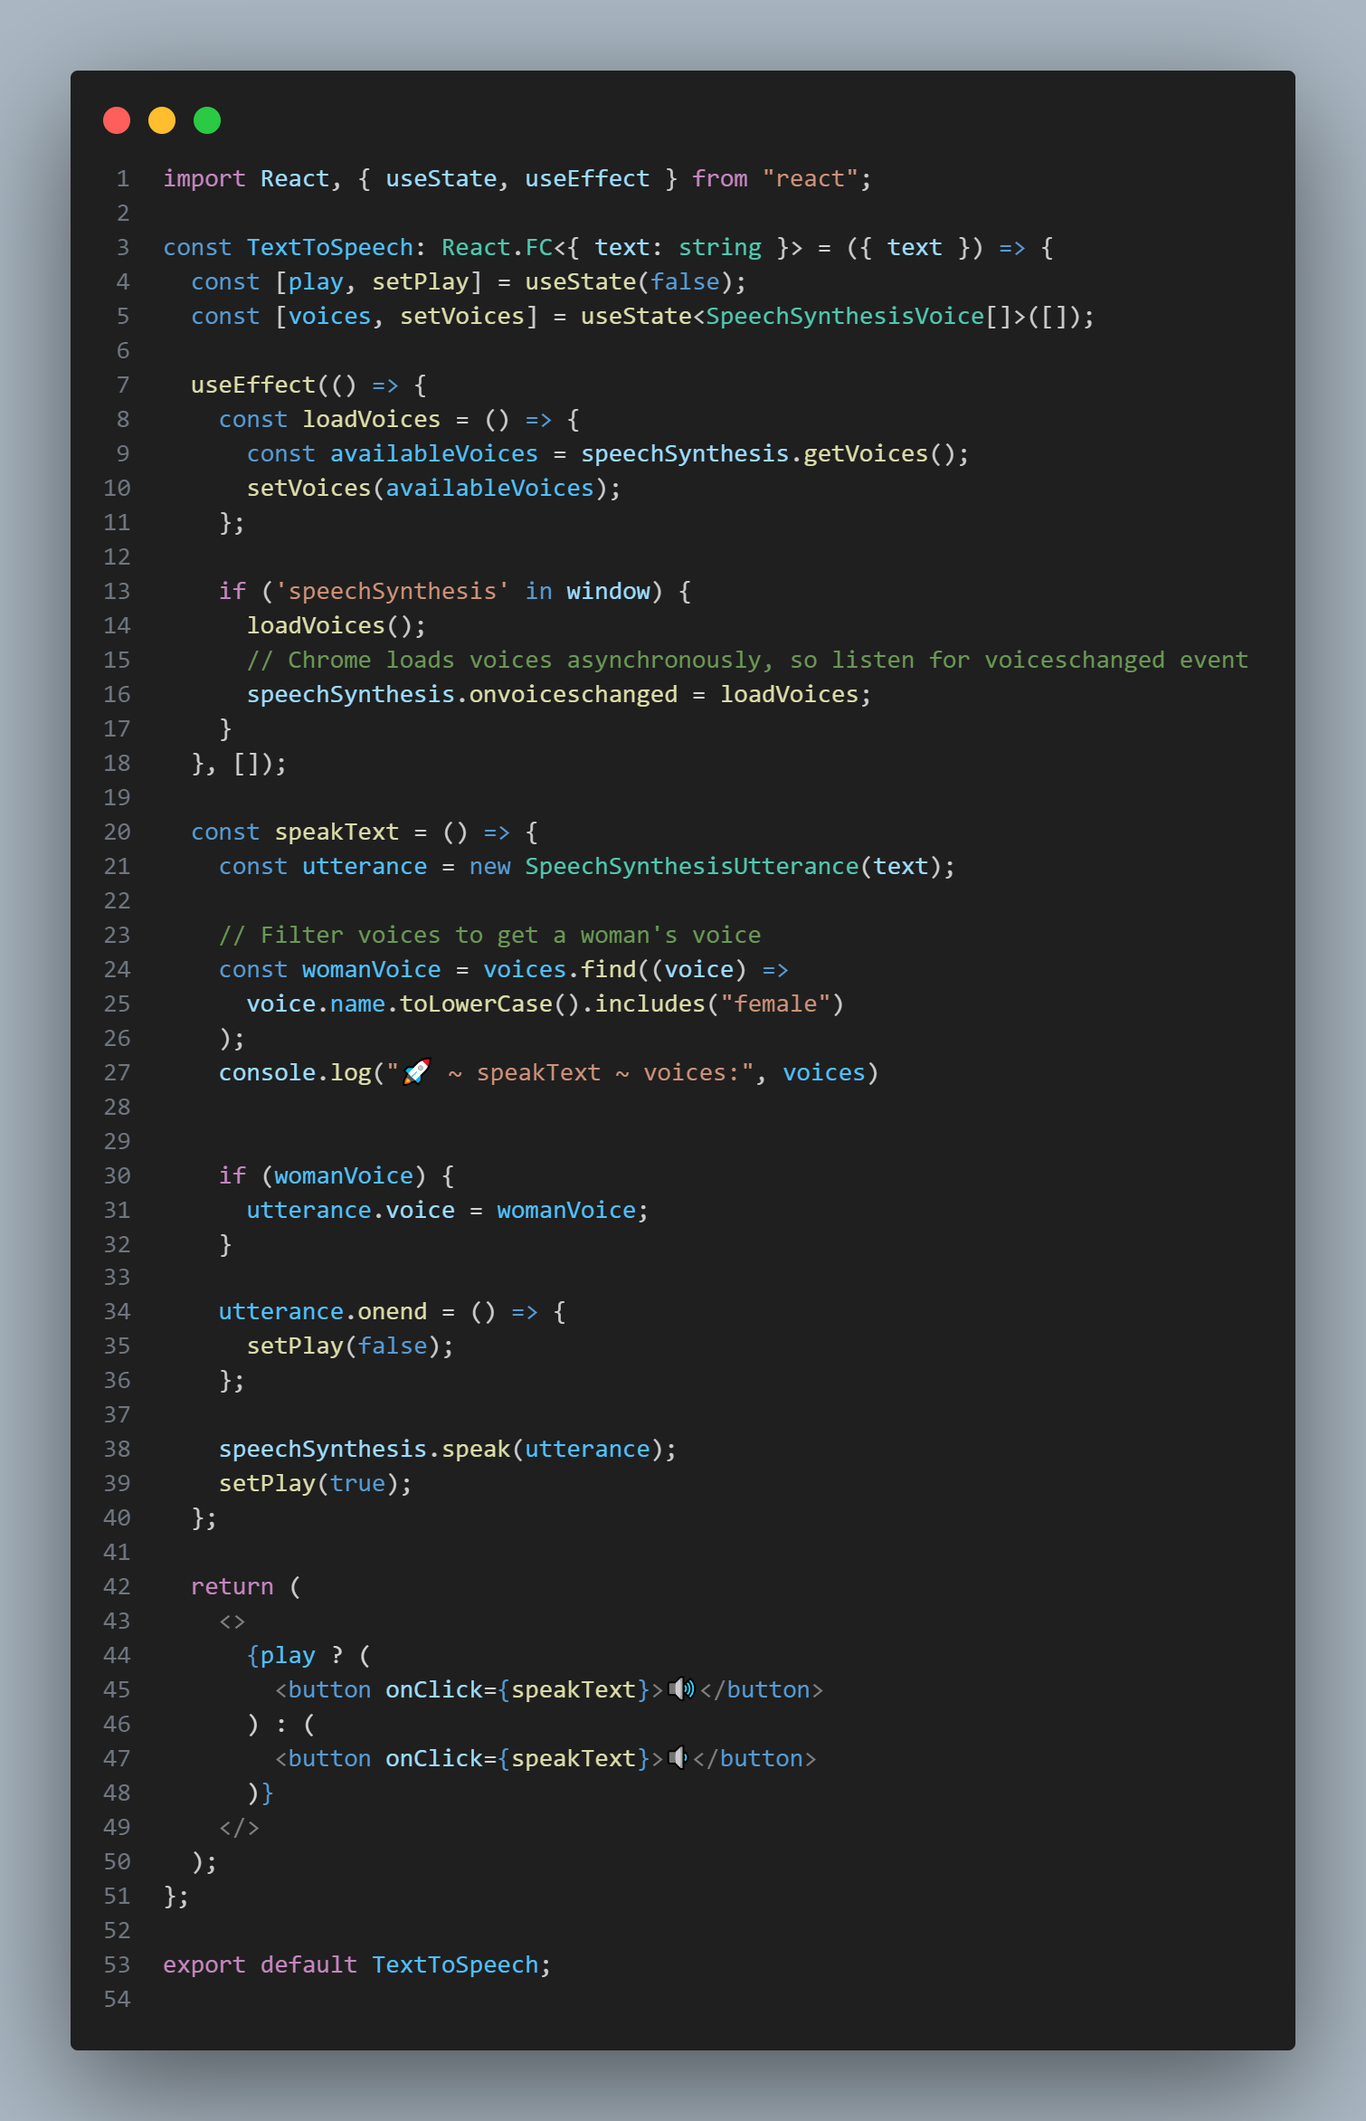
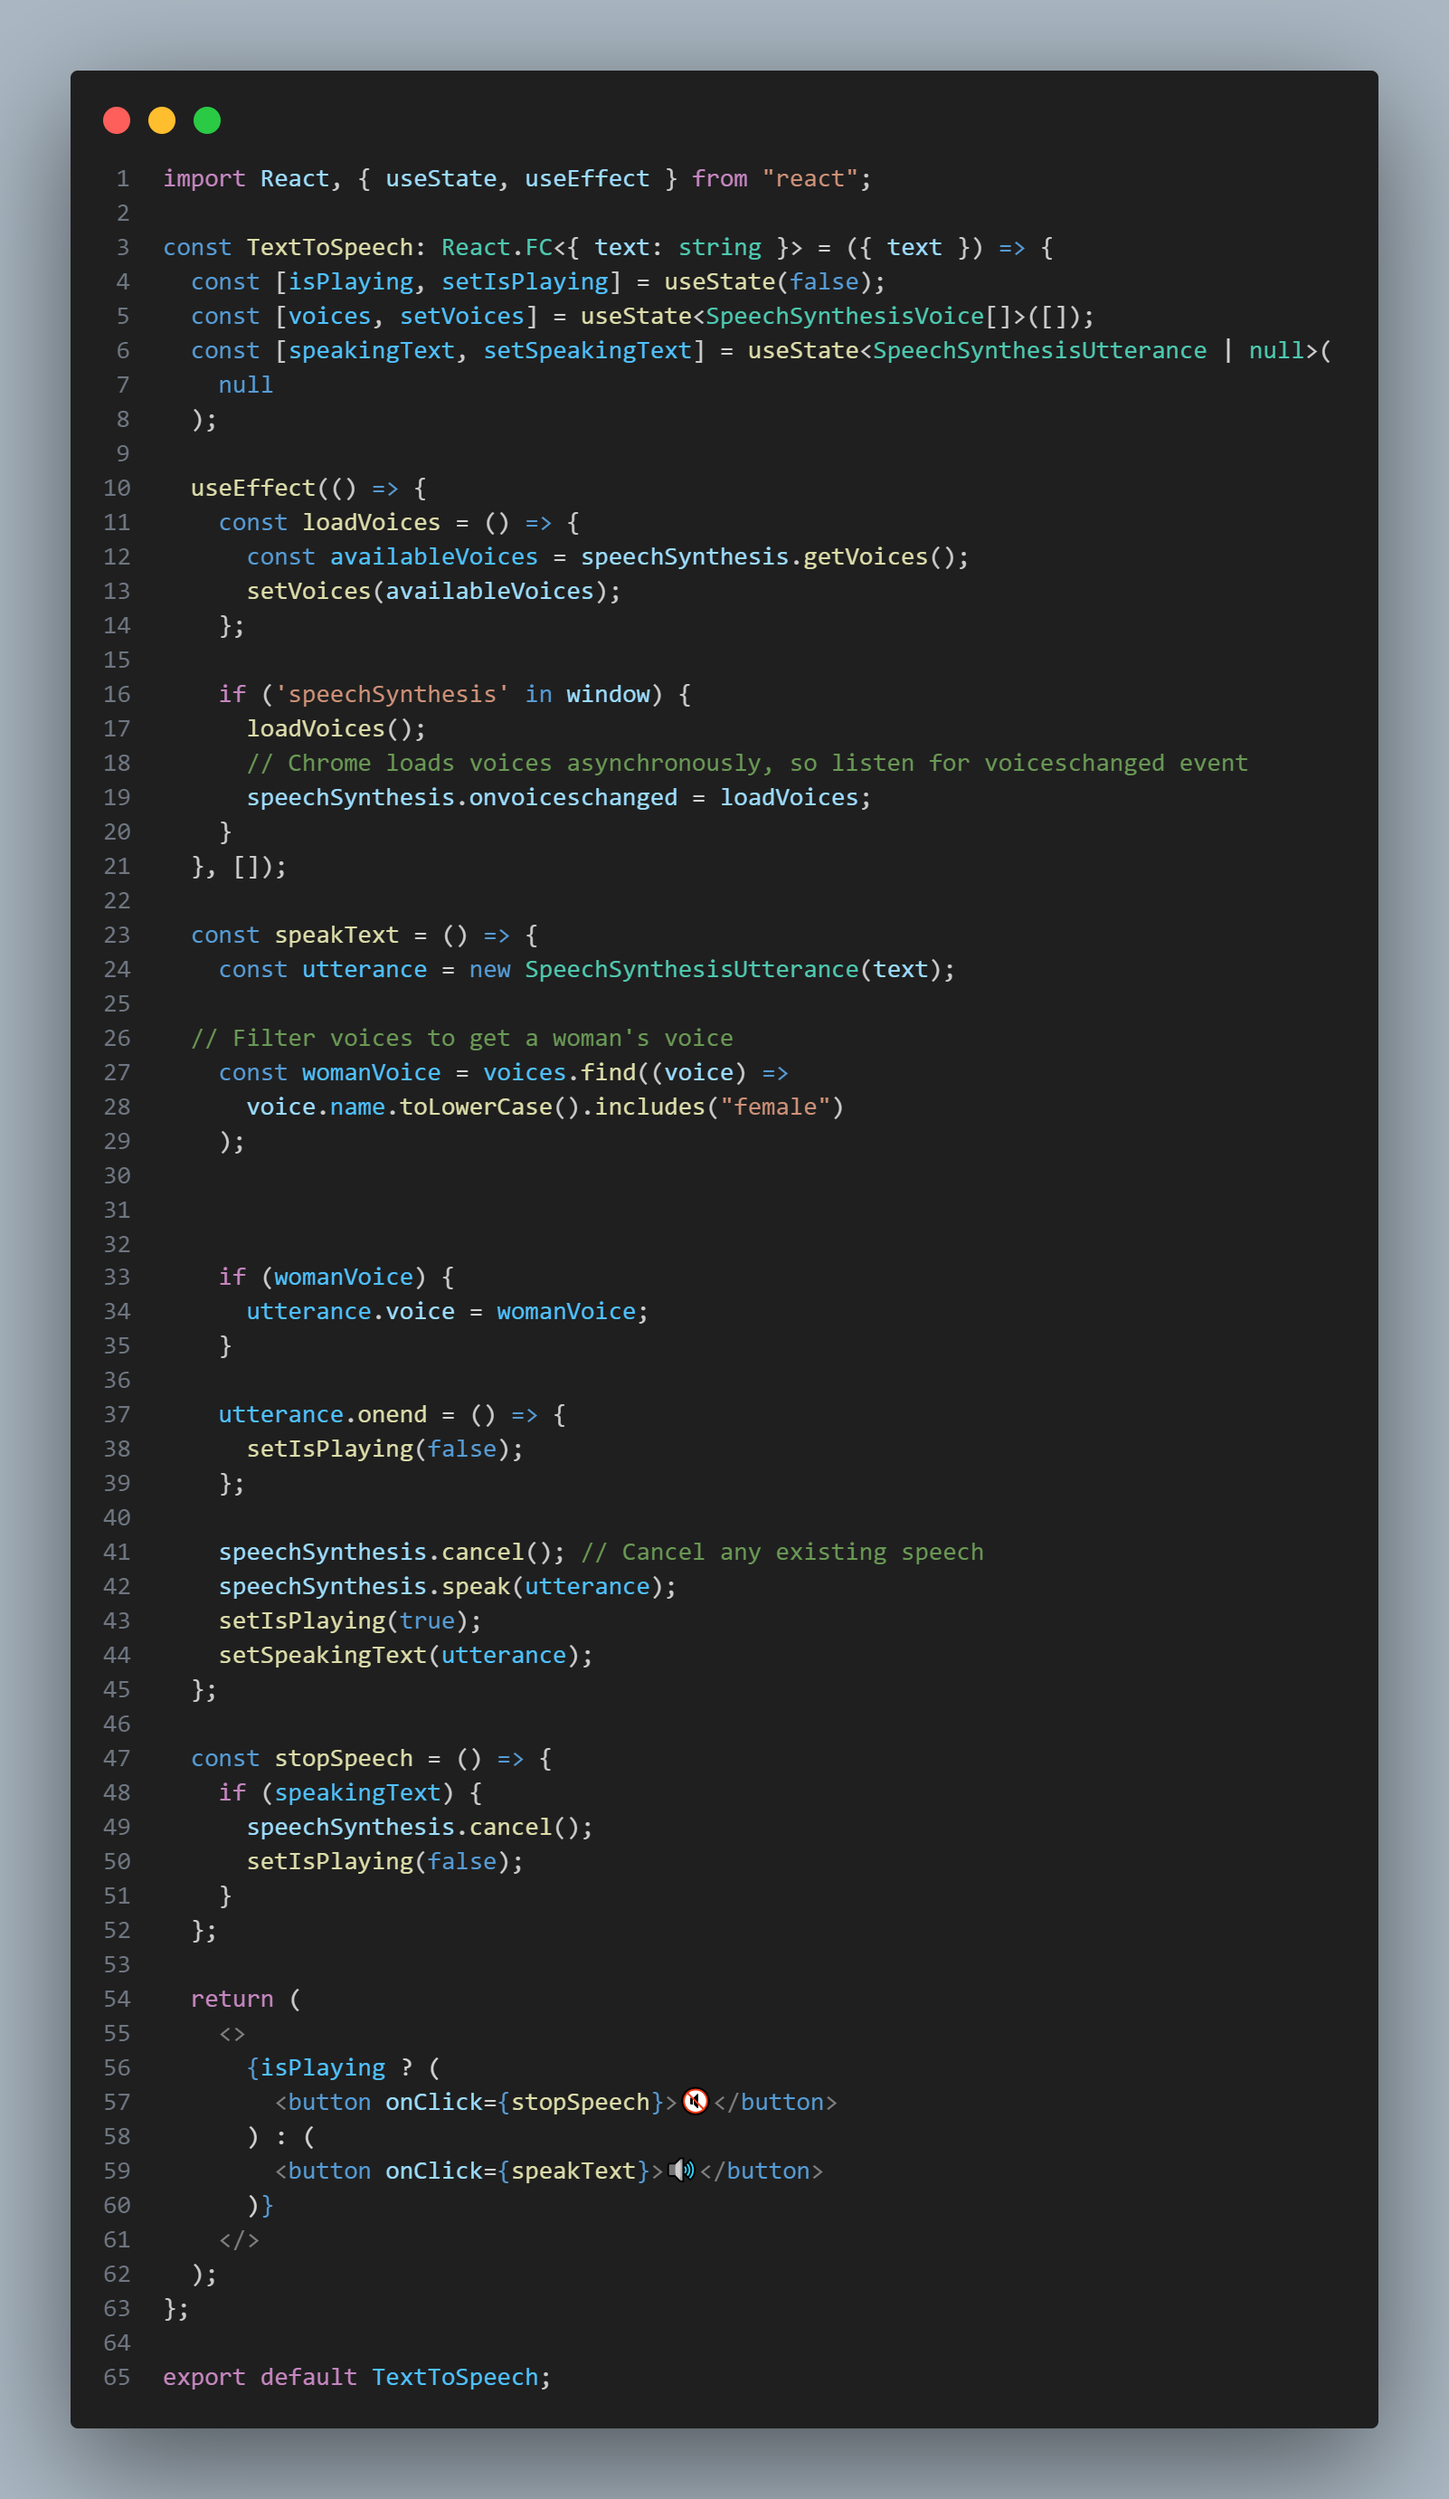
fix voice

diff --git a/TextToVoice/textToVoice.tsx b/TextToVoice/textToVoice.tsx
@@ -1,8 +1,11 @@
 import React, { useState, useEffect } from "react";
 
 const TextToSpeech: React.FC<{ text: string }> = ({ text }) => {
-  const [play, setPlay] = useState(false);
+  const [isPlaying, setIsPlaying] = useState(false);
   const [voices, setVoices] = useState<SpeechSynthesisVoice[]>([]);
+  const [speakingText, setSpeakingText] = useState<SpeechSynthesisUtterance | null>(
+    null
+  );
 
   useEffect(() => {
     const loadVoices = () => {
@@ -20,11 +23,11 @@ const TextToSpeech: React.FC<{ text: string }> = ({ text }) => {
   const speakText = () => {
     const utterance = new SpeechSynthesisUtterance(text);
 
-    // Filter voices to get a woman's voice
+  // Filter voices to get a woman's voice
     const womanVoice = voices.find((voice) =>
       voice.name.toLowerCase().includes("female")
     );
-    console.log("🚀 ~ speakText ~ voices:", voices)
+   
  
 
     if (womanVoice) {
@@ -32,19 +35,28 @@ const TextToSpeech: React.FC<{ text: string }> = ({ text }) => {
     }
 
     utterance.onend = () => {
-      setPlay(false);
+      setIsPlaying(false);
     };
 
+    speechSynthesis.cancel(); // Cancel any existing speech
     speechSynthesis.speak(utterance);
-    setPlay(true);
+    setIsPlaying(true);
+    setSpeakingText(utterance);
+  };
+
+  const stopSpeech = () => {
+    if (speakingText) {
+      speechSynthesis.cancel();
+      setIsPlaying(false);
+    }
   };
 
   return (
     <>
-      {play ? (
-        <button onClick={speakText}>🔊</button>
+      {isPlaying ? (
+        <button onClick={stopSpeech}>🔇</button>
       ) : (
-        <button onClick={speakText}>🔉</button>
+        <button onClick={speakText}>🔊</button>
       )}
     </>
   );
